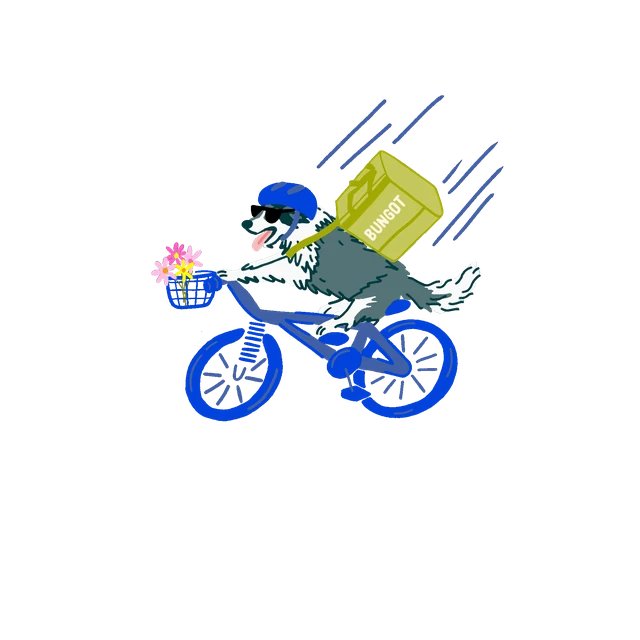
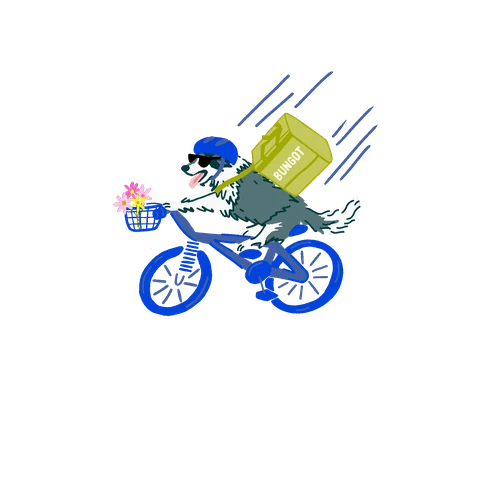
Portada: lo que no es el LCP arranca despues de que el perro se pinta
PageSpeed marcaba LCP 8.2 s con un LCP real de ~3 s (Lighthouse con
throttling real). Su simulacion suma toda descarga que TERMINA antes del
LCP observado, y en su traza casi todo terminaba antes: ~1.9 MB.

- Hero: las 11 mechas van lazy y sin caja (data-hero-espera) hasta que
  las patas se pintan; un script inline de la seccion las suelta.
- Favoritos: los paneles 2..n, apilados sobre el primero, contaban como
  "en pantalla" y bajaban ~430 KB en prioridad alta sin verse. Esperan
  sin caja (data-favs-espera) al primer gesto de scroll o al load.
- Cortina: los dos cuadros pasan de 640 a 480 px (91 -> 61 KB).

Sin JS no hay marcas y todo carga como antes. Verificado el orden de las
peticiones y que las 13 capas y las 8 imagenes de Favoritos terminan
cargadas en celu y compu.

diff --git a/assets/base.css b/assets/base.css
@@ -944,6 +944,10 @@ shopify-account::part(signed-out-avatar) {
   animation: perro-hair calc(var(--p) * var(--k)) ease-in-out infinite;
   animation-delay: calc(var(--lag) - var(--p) * var(--k));
 }
+/* Mientras las patas (el LCP) no se pinten, las mechas no existen: sin caja,
+   un loading="lazy" no se descarga. La marca la pone y la quita el propio
+   hero.liquid (ver ahí el porqué). */
+.hero[data-hero-espera] .hero__pelo { display: none; }
 .hero__pelo--01 { transform-origin: 37.67% 12.31%; --ah: calc(4.3deg * var(--inertia)); }
 .hero__pelo--02 { transform-origin: 35.47% 18.11%; --ah: calc(5.1deg * var(--inertia)); }
 .hero__pelo--03 { transform-origin: 34.79% 23.97%; --ah: calc(5.0deg * var(--inertia)); }
@@ -1334,6 +1338,11 @@ shopify-account::part(signed-out-avatar) {
 }
 
 /* --- Con enhancement: escenario pineado + capas superpuestas --- */
+/* Paneles 2..n sin caja hasta que favoritos.liquid los suelte (primer gesto
+   de scroll o poco después del load): así sus fotos y stickers lazy no bajan
+   mientras carga el hero. */
+.favs[data-favs-espera] .fav ~ .fav { display: none; }
+
 .favs[data-enhanced='true'] {
   /* El recorrido tiene que dar para: una pausa por panel, un cambio entre cada
      par, y la pantalla que ocupa el escenario pineado. Esta cuenta es la misma

diff --git a/CLAUDE.md b/CLAUDE.md
@@ -202,6 +202,7 @@ La columna "Ayuda" del footer (menú `footer` de Shopify) apunta desde 2026-09-1
 - Mantén el `skip-link` y los roles/landmarks del layout.
 - **Responsive:** cada página custom lleva sus media queries en su propia hoja (`productos.css`, `producto.css`, `conocenos-paseo.css`…) y las secciones de la landing en `base.css`; cortes usados: 900 (tablet/teléfono), 640 (teléfono) y algún 760/820 puntual. Verifica a 390×844 y 768×1024 con el skill `browser-automation` (viewport con `page.setViewportSize`) midiendo `scrollWidth` y capturando; ojo con las capturas *full page*: en secciones movidas por scroll (Favoritos, bonche, paseo) solo valen las capturas a viewport en varios puntos del scroll.
 - **Los cambios de móvil NO van para laptop/escritorio.** Cuando se pida un ajuste "en celu" o "en tablet", va **solo dentro del media query** del corte que toca (`≤900` / `≤640`), nunca en la regla base que también pinta escritorio. Escritorio ya está aprobado como está: si un cambio móvil te obliga a tocar la regla base, mueve el valor viejo a un `@media (min-width: 901px)` o usa una CSS var que el media query sobreescriba, y verifica a 1440×900 que nada se movió. Lo mismo en JS: lo que dependa del corte se condiciona con la misma medición que usa el CSS (ancho de marco), no se aplica a todos los anchos.
+- **Lo que no es el LCP arranca DESPUÉS del LCP (2026-09-17).** PageSpeed/Lighthouse estiman el LCP móvil simulando la red sobre TODA descarga que termina antes de que el LCP se pinte en su traza (red rápida, CPU lenta: casi todo termina antes). Por eso la portada marcaba 8 s con un LCP real de ~3 s. En la portada las 11 mechas del perro (`data-hero-espera`) y los paneles 2..n de Favoritos (`data-favs-espera`, que por ir apilados contaban como "en pantalla" y bajaban ~430 KB en prioridad alta) van `display: none` + `loading="lazy"` hasta que un script inline de su propia sección los suelta: las mechas tras pintarse las patas, los paneles al primer gesto de scroll o 300 ms después del `load`. Sin JS no hay marca y todo carga normal; en el editor de temas Favoritos no se marca. Cualquier imagen pesada nueva arriba del pliegue que no sea el LCP sigue el mismo patrón; para revisar, sumar en el JSON de Lighthouse los `network-requests` con `networkEndTime` menor al LCP observado.
 - **Animaciones infinitas y el hilo principal (2026-09-15):** las del perro del hero (`perro-breath/sway/hair`) van en el compositor, pero Chrome recalcula el estilo de sus 13 capas en cada cuadro del hilo principal que ocurra por OTRA razón. Por eso nada del tema puede pedir un cuadro por vsync en reposo: la ola del bonche (`wave-swell` anima `d`, siempre en hilo principal) se pausa fuera de pantalla con `initWaveEdges()` y la hoja de cuenta de Shopify se monta bajo demanda (ver *Header*). Cualquier animación nueva que no sea `transform`/`opacity` tiene que pausarse fuera de pantalla igual, y nada de bucles de `requestAnimationFrame` corriendo sin scroll. Para medir: CDP `Performance.getMetrics` (TaskDuration/RecalcStyleDuration) en 5 s de reposo con `Emulation.setCPUThrottlingRate` 4, o una traza y contar `ProxyMain::BeginMainFrame`.
 - Ojo con `transform` en ancestros de un `position: sticky` (lo rompe) — conocenos-paseo.css lo documenta: el lienzo del paseo se escala con `zoom`, nunca con `transform: scale()`.
 - **Scroll móvil sin brincos (2026-08-31):** en celu, esconder/mostrar la barra del navegador dispara `resize` y cambia `innerHeight` **sin mover el ancho**. Toda rutina de JS que dependa del alto del viewport (Favoritos, bonche, paseo, empuje del footer) **cachea el alto y solo lo re-mide cuando cambia el ANCHO** (rotación) — misma lógica que `svh` en CSS, que es contra lo que esos cálculos tienen que cuadrar. Cualquier medición nueva del viewport sigue este patrón; un `window.innerHeight` leído en cada frame hace brincar la página a mitad de scroll. **Y en CSS tampoco uses `svh`/`dvh`/`vh` directo para alto de pantalla (2026-09-07):** Chrome y Firefox en iOS tratan `svh` como `dvh`, así que la tarjeta de Favoritos, el hero y la foto a lo ancho crecían y encogían con la barra del navegador. Todo alto de pantalla se escribe `calc(N * var(--svh))`: `--svh` es 1% del alto estable, lo pone en px un script inline del `<head>` de `theme.liquid` una sola vez y solo lo re-mide si cambia el ancho (o en escritorio, con puntero fino); el `:root` de `base.css` trae el respaldo sin JS (`1vh`, `1svh` bajo `@supports`). Los JS que cachean el alto (Favoritos, bonche, paseo) leen el mismo número con `window.BUNGOT.altoVista()`, nunca `innerHeight`. Van con esto y no se quitan: las líneas `vh` de respaldo que quedan junto a algunas reglas, `overscroll-behavior-y: contain` en el `body` (sin pull-to-refresh ni rebote) y el meta viewport con `viewport-fit=cover` + `interactive-widget=resizes-content` en `theme.liquid`.
